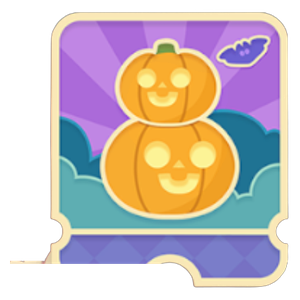
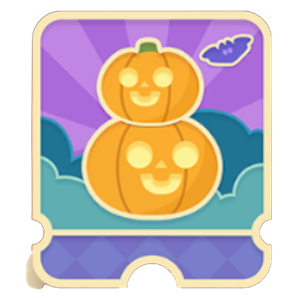
実績バッジの切り抜きアルゴリズムの根本的なバグを修正 (#15)
台座の切り欠き（ノッチ）がある9個中7個のバッジ（不屈の心、虫の司令官、
かぼちゃダルマ、収集家、ロケットスポンサー、パズルの芸術家、弛まぬ筆）
で、切り抜きロジックが「中心に最も近い1本の帯」しか残さない実装になっており、
ノッチによって左右に分かれた土台の脚のうち、中心から遠い側を丸ごと消して
しまっていた。これが「バッジ左下部分が欠けている」の原因。

元画像（screenshotの生ピクセル）から土台の輪郭を直接色判定で再計測し、
左右の脚を両方とも保持するよう修正。あわせて、月桂樹の葉先が脚の輪郭に
色的に融合して誤って地続きになっていた箇所（左下に余分な突起として残存）
も、輪郭の連続性から判別して除去した。

9個のうち2個（スターダストコレクター＝id44、名手の第一歩＝id52）はノッチの
無い別フレームのため元々この不具合の影響を受けておらず、変更なし。

全75枚のバッジ画像に対する連結成分チェックと test suite (32/32) を実施済み。

Claude-Session: https://claude.ai/code/session_01K3eMRAeT6oYS9BRu22swvm

diff --git a/service-worker.js b/service-worker.js
@@ -1,5 +1,5 @@
 // キャッシュ名（更新時はバージョンを上げる）
-const CACHE_NAME = "hatopi-v2.603.0";
+const CACHE_NAME = "hatopi-v2.604.0";
 
 // キャッシュするファイル一覧
 const CACHE_FILES = [
